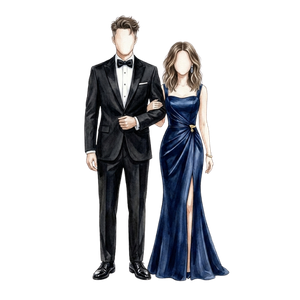
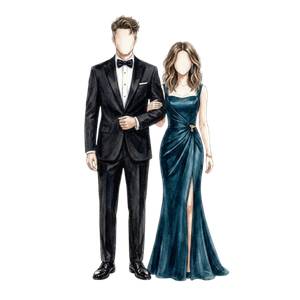
revision round 5

diff --git a/src/components/OpeningScreen.jsx b/src/components/OpeningScreen.jsx
@@ -117,7 +117,7 @@ function OpeningScreen({ onEnvelopeOpen }) {
       </div>
 
       <div className="absolute bottom-6 left-0 right-0 flex flex-col items-center justify-center px-4 text-center pointer-events-none z-10">
-        <div ref={introCopyRef} className="mb-4 sm:mb-6 md:mb-8">
+        <div ref={introCopyRef} className="mb-0 md:mb-1.5">
           <p
             className="opening-invite-kicker font-foglihten tracking-[0.2em] text-sm sm:text-base md:text-lg uppercase"
             style={{
@@ -140,12 +140,12 @@ function OpeningScreen({ onEnvelopeOpen }) {
           type="button"
           onClick={handleOpen}
           aria-label="Open invitation"
-          className="focus:outline-none p-0 m-0 border-0 bg-transparent leading-none pointer-events-auto relative inline-block"
+          className="focus:outline-none p-0 m-0 border-0 bg-transparent leading-none pointer-events-auto relative inline-block -mt-2 sm:-mt-3 md:mt-0"
         >
           <img
             src="/images/graphics/envelope.png"
             alt="Envelope"
-            className="w-[80vw] h-auto max-w-[520px] md:w-auto md:h-[24vh] opening-envelope-image"
+            className="w-[74vw] h-auto max-w-[460px] md:w-auto md:h-[21vh] opening-envelope-image"
           />
           <img
             src="/images/graphics/stamp.png"

diff --git a/src/components/DressCode.jsx b/src/components/DressCode.jsx
@@ -105,15 +105,15 @@ const DressCode = () => {
         </div>
 
         <div ref={swatchesRef} className="mt-6 flex items-center justify-center gap-2 flex-wrap">
-          <span title="Navy Blue" className="inline-block w-8 h-8 rounded-full border border-white/70" style={{ backgroundColor: '#1f3a6e' }} />
+          <span title="Navy Blue" className="inline-block w-8 h-8 rounded-full border border-white/70" style={{ backgroundColor: '#323B60' }} />
           <span title="Black" className="inline-block w-8 h-8 rounded-full border border-white/70" style={{ backgroundColor: '#000000' }} />
           <span title="White" className="inline-block w-8 h-8 rounded-full border border-white/70" style={{ backgroundColor: '#ffffff' }} />
         </div>
 
         <div ref={descriptionRef} className="font-poppins text-sm leading-relaxed mt-6 space-y-1" style={{ color: '#6F2D36' }}>
           <p className="font-poppins font-semibold tracking-wide">FORMAL</p>
-          <p className="font-poppins">Gentlemen: Black and white suit with bow tie.</p>
-          <p className="font-poppins">Ladies: Navy blue dress.</p>
+          <p className="font-poppins">Gentlemen: Black Suit &amp; Bow Tie</p>
+          <p className="font-poppins">Ladies: Navy blue dress</p>
         </div>
       </div>
     </section>

diff --git a/src/components/IntroSection.jsx b/src/components/IntroSection.jsx
@@ -129,7 +129,7 @@ const IntroSection = () => {
             </h2>
             <p ref={copyRef} className="font-poppins text-sm leading-snug" style={{ color: '#6F2D36' }}>
               I am so excited to celebrate my special day with you.
-              Thank you for being part of my journey.
+              Thank you for being part of my journey!
             </p>
             <div ref={calendarRef} className="mt-10 w-4/5 mx-auto">
               <p className="font-rozha text-2xl tracking-[0.12em] uppercase" style={{ color: '#6F2D36' }}>

diff --git a/src/index.css b/src/index.css
@@ -875,8 +875,8 @@ body {
 @media (min-width: 992px) {
   .opening-envelope-image {
     width: auto !important;
-    height: 36vh !important;
-    max-width: 760px !important;
+    height: 31vh !important;
+    max-width: 580px !important;
   }
 }
 
